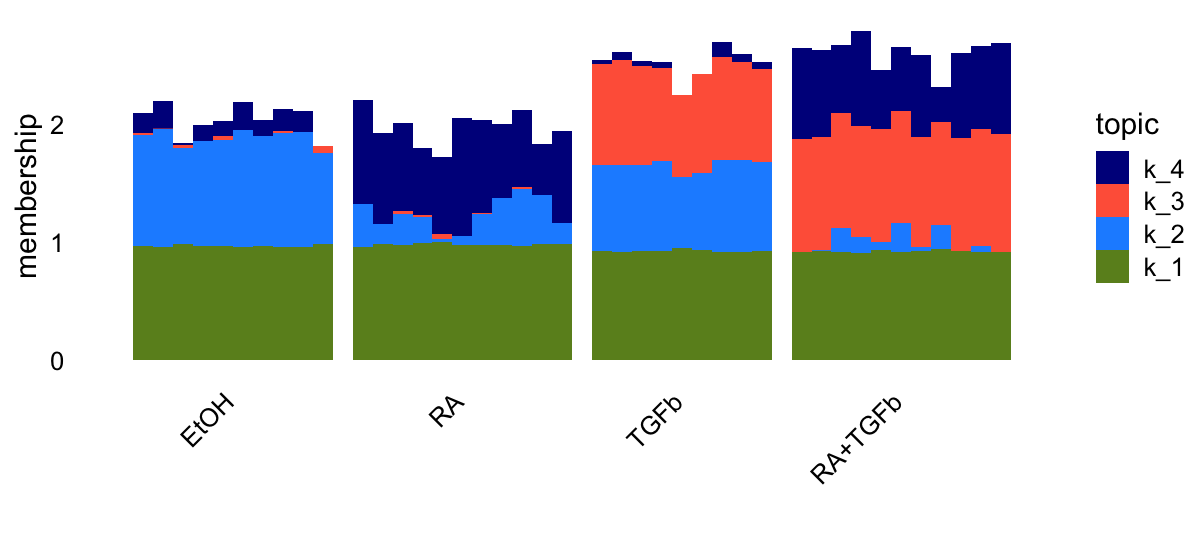
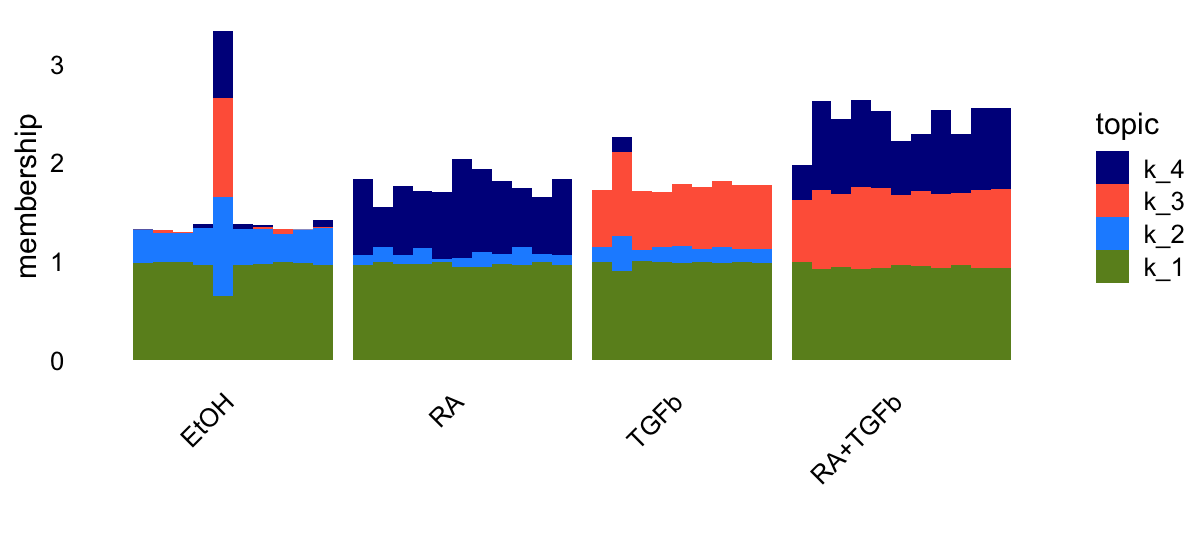
Build site.

diff --git a/docs/mcf7.html b/docs/mcf7.html
@@ -446,15 +446,15 @@ project makes it easier to run your code on other machines.</p>
 <div class="panel panel-default">
 <div class="panel-heading">
 <p class="panel-title">
-<a data-toggle="collapse" data-parent="#workflowr-checks" href="#strongRepositoryversionstrongahrefhttpsgithubcomeweinelog1pexperimentstree94d5a8335d547f22ad06dc7c9bf1af2f895746fctargetblank94d5a83a">
+<a data-toggle="collapse" data-parent="#workflowr-checks" href="#strongRepositoryversionstrongahrefhttpsgithubcomeweinelog1pexperimentstree3c7bd7ccbdd999bff6b78f7c0e0a3e48285d70f9targetblank3c7bd7ca">
 <span class="glyphicon glyphicon-ok text-success"
 aria-hidden="true"></span> <strong>Repository version:</strong>
-<a href="https://github.com/eweine/log1p_experiments/tree/94d5a8335d547f22ad06dc7c9bf1af2f895746fc" target="_blank">94d5a83</a>
+<a href="https://github.com/eweine/log1p_experiments/tree/3c7bd7ccbdd999bff6b78f7c0e0a3e48285d70f9" target="_blank">3c7bd7c</a>
 </a>
 </p>
 </div>
 <div
[2 lines of base64/hex data omitted]
 class="panel-collapse collapse">
 <div class="panel-body">
 <p>
@@ -464,7 +464,7 @@ reproducibility.
 </p>
 <p>
 The results in this page were generated with repository version
-<a href="https://github.com/eweine/log1p_experiments/tree/94d5a8335d547f22ad06dc7c9bf1af2f895746fc" target="_blank">94d5a83</a>.
+<a href="https://github.com/eweine/log1p_experiments/tree/3c7bd7ccbdd999bff6b78f7c0e0a3e48285d70f9" target="_blank">3c7bd7c</a>.
 See the <em>Past versions</em> tab to see a history of the changes made
 to the R Markdown and HTML files.
 </p>
@@ -525,6 +525,40 @@ Message
 </tr>
 </thead>
 <tbody>
+<tr>
+<td>
+Rmd
+</td>
+<td>
+<a href="https://github.com/eweine/log1p_experiments/blob/3c7bd7ccbdd999bff6b78f7c0e0a3e48285d70f9/analysis/mcf7.Rmd" target="_blank">3c7bd7c</a>
+</td>
+<td>
+Peter Carbonetto
+</td>
+<td>
+2025-06-02
+</td>
+<td>
+wflow_publish("analysis/mcf7.Rmd", view = FALSE, verbose = TRUE)
+</td>
+</tr>
+<tr>
+<td>
+html
+</td>
+<td>
+<a href="https://rawcdn.githack.com/eweine/log1p_experiments/610296c3532207e011a6113479b59ff86924778a/docs/mcf7.html" target="_blank">610296c</a>
+</td>
+<td>
+Peter Carbonetto
+</td>
+<td>
+2025-06-02
+</td>
+<td>
+Build site.
+</td>
+</tr>
 <tr>
 <td>
 Rmd
@@ -1463,7 +1497,7 @@ setting, <span class="math inline">\(c = 10\)</span>:</p>
 fit_log1p_c10 &lt;- 
   fit_poisson_log1p_nmf(counts,K = 4,cc = 10,loglik = &quot;exact&quot;,
                         init_method = &quot;rank1&quot;,
-                        control = list(maxiter = 200,
+                        control = list(maxiter = 100,
                                        verbose = FALSE))</code></pre>
 <p>As expected, the log1p NMF model with <span class="math inline">\(c =
 10\)</span> closely recovers the topic model (aside from the inclusion
@@ -1514,19 +1548,20 @@ Peter Carbonetto
 </div>
 </div>
 <p>Let’s now try a “small” setting, <span class="math inline">\(c =
-0.3\)</span>:</p>
-<pre class="r"><code>fit_log1p_c0.3 &lt;- 
-  fit_poisson_log1p_nmf(counts,K = 4,cc = 0.3,loglik = &quot;exact&quot;,
+0.1\)</span>:</p>
+<pre class="r"><code>set.seed(1)
+fit_log1p_c0.1 &lt;- 
+  fit_poisson_log1p_nmf(counts,K = 4,cc = 0.1,loglik = &quot;exact&quot;,
                         init_method = &quot;rank1&quot;,
                         control = list(maxiter = 100,
                                        verbose = FALSE))</code></pre>
 <p>Interestingly, the fit at this setting is different from all the
-previous results in one important respect: the ethanol samples are now
-also modeled as a combination of an “ethanol factor” and a “TGF-<span
-class="math inline">\(\beta\)</span> factor”.</p>
-<pre class="r"><code>topic_colors &lt;- c(&quot;olivedrab&quot;,&quot;darkblue&quot;,&quot;dodgerblue&quot;,&quot;tomato&quot;)
-L &lt;- fit_log1p_c0.3$LL
-d &lt;- apply(L,2,quantile,probs = 0.9)
+previous results in one important respect: previous results in one
+important respect: the “ethanol factor” does not contribute much to the
+RA samples.</p>
+<pre class="r"><code>topic_colors &lt;- c(&quot;olivedrab&quot;,&quot;dodgerblue&quot;,&quot;darkblue&quot;,&quot;tomato&quot;)
+L &lt;- fit_log1p_c0.1$LL
+d &lt;- apply(L,2,quantile,probs = 0.75)
 L &lt;- scale_cols(L,1/d)
 structure_plot(L,grouping = samples$label,topics = c(4,2,3,1),
                colors = topic_colors) +
@@ -1556,6 +1591,17 @@ Date
 <tbody>
 <tr>
 <td>
+<a href="https://github.com/eweine/log1p_experiments/blob/610296c3532207e011a6113479b59ff86924778a/docs/figure/mcf7.Rmd/structure-plot-log1pNMF-c01-1.png" target="_blank">610296c</a>
+</td>
+<td>
+Peter Carbonetto
+</td>
+<td>
+2025-06-02
+</td>
+</tr>
+<tr>
+<td>
 <a href="https://github.com/eweine/log1p_experiments/blob/c3a9654aebea007c38527d32a7d7c0c59aef17ad/docs/figure/mcf7.Rmd/structure-plot-log1pNMF-c01-1.png" target="_blank">c3a9654</a>
 </td>
 <td>
@@ -1569,16 +1615,16 @@ Peter Carbonetto
 </table>
 </div>
 </div>
-<p>(I also tried smaller settings of <span
-class="math inline">\(c\)</span> and got strange results at these
-settings.)</p>
+<p>It is also a bit weird that one of the samples is a combination of
+all 4 factors. This result suggests that this is quite different from
+the others, i.e., an “outlier”.</p>
 <p>And, indeed, the “middle ground” setting of <span
 class="math inline">\(c = 1\)</span> produces a result somewhere in
 between the two:</p>
 <pre class="r"><code>fit_log1p_c1 &lt;- 
   fit_poisson_log1p_nmf(counts,K = 4,cc = 1,loglik = &quot;exact&quot;,
                         init_method = &quot;rank1&quot;,
-                        control = list(maxiter = 200,
+                        control = list(maxiter = 100,
                                        verbose = FALSE))
 topic_colors &lt;- c(&quot;olivedrab&quot;,&quot;dodgerblue&quot;,&quot;tomato&quot;,&quot;darkblue&quot;)
 L &lt;- fit_log1p_c1$LL
